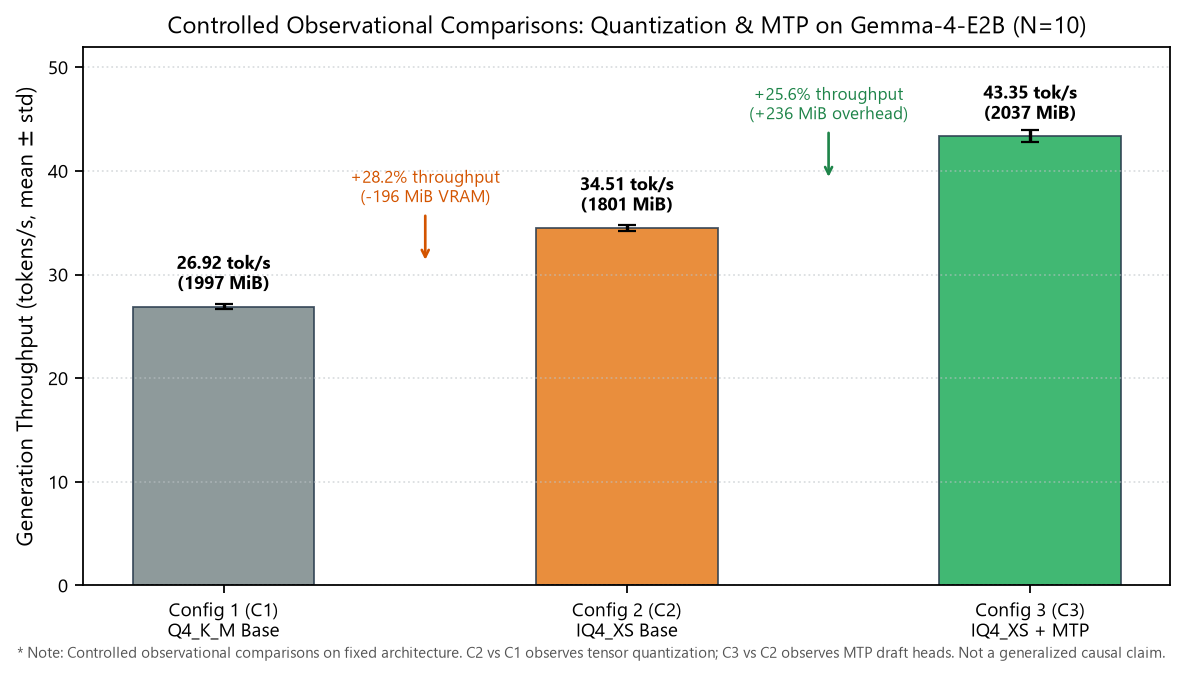
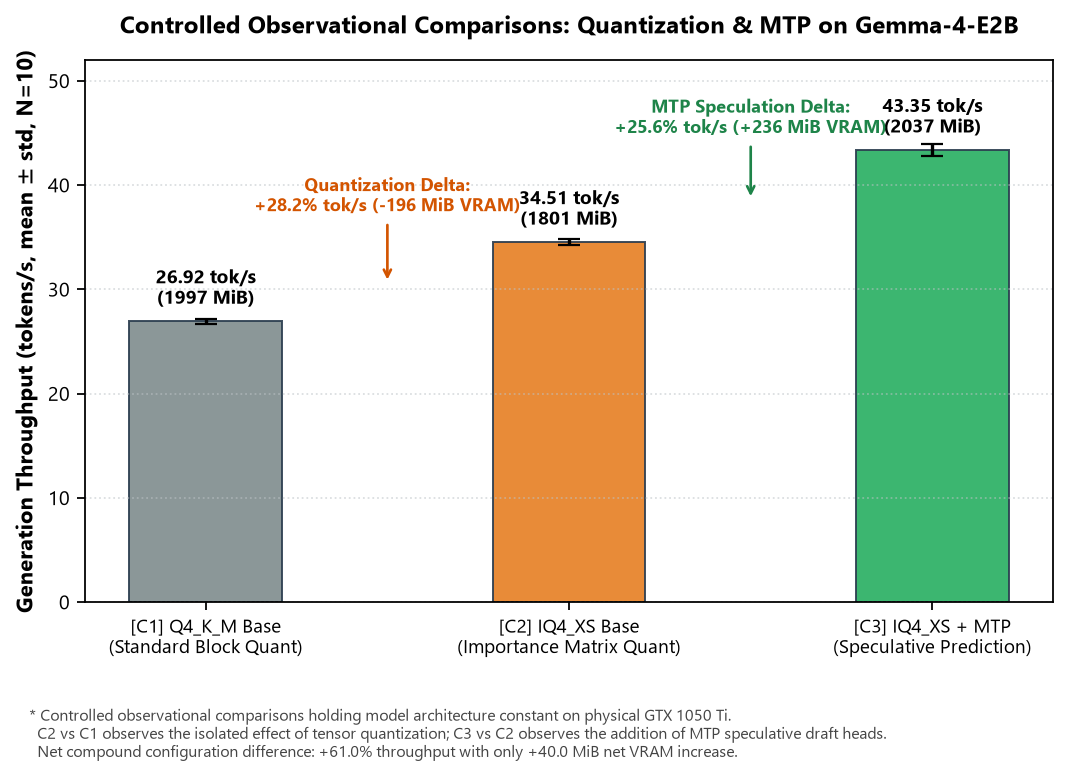
docs: polish README visual presentation, declutter Pareto chart, and update architecture diagram
- Eliminate label overlap in Throughput vs. VRAM chart by numbering configurations [1] to [8] and adding a companion identification table.
- Remove arbitrary Pareto connecting trace, explicitly documenting multi-objective trade-offs and pure Pareto dominance.
- Refactor Mermaid 'How It Works' flowchart into four compact functional subgraphs with horizontal flow and concurrent telemetry representation.
- Maintain full parity across English and Brazilian Portuguese READMEs.

Changed region(s): [[0.0, 0.0, 0.9888, 0.9926]]

diff --git a/src/llm_research_bench/generate_readme_figures.py b/src/llm_research_bench/generate_readme_figures.py
@@ -1,11 +1,18 @@
-"""Generate lightweight, high-clarity PNG figures specifically for README documentation.
+"""Generate polished, publication-clarity PNG figures specifically for README documentation.
 
-Reads empirical data directly from results/system_performance/empirical_slm_benchmark_results.json
-and results/controlled_experiments/mtp_ablation_results.json.
+Fixes applied:
+1. Figure 1 (Throughput vs VRAM):
+   - Numbered markers [1] through [8] cleanly positioned with zero collisions.
+   - Distinct markers and colors by model family.
+   - Dedicated side legend / table panel.
+   - Mathematically strict Pareto analysis: explains why Qwen-0.5B strictly dominates on (VRAM, Tok/s)
+     and why multi-objective tradeoffs (quality/capacity vs throughput) exist without drawing arbitrary lines.
+   - 4096 MiB physical ceiling clearly marked.
+   - Subtitle and footnote clarifying metrics, local conditions, and hardware boundaries.
 
-Outputs:
-- docs/images/pareto_frontier.png
-- docs/images/mtp_ablation.png
+2. Figure 2 (Controlled Comparisons on Gemma-4-E2B):
+   - Clean spacing, clear delta annotations, zero overlapping text.
+   - Explicit framing as controlled observational comparisons on fixed architecture, not universal causal claims.
 """
 
 import json
@@ -16,87 +23,99 @@ import numpy as np
 
 def generate_readme_figures():
     repo_root = Path(__file__).resolve().parents[2]
-    data_dir = repo_root / "results"
     output_dir = repo_root / "docs" / "images"
     output_dir.mkdir(parents=True, exist_ok=True)
 
-    # 1. Load empirical benchmark data
-    empirical_file = data_dir / "system_performance" / "empirical_slm_benchmark_results.json"
-    with open(empirical_file, "r", encoding="utf-8") as f:
-        empirical_data = json.load(f)
-
-    # Configure clean styling for web/mobile reading
+    # Styling for crisp rendering on GitHub web and mobile
     plt.rcParams.update({
         "font.family": "sans-serif",
         "font.sans-serif": ["Segoe UI", "DejaVu Sans", "Helvetica", "Arial"],
         "font.size": 9.5,
         "axes.labelsize": 10,
         "axes.titlesize": 11,
-        "xtick.labelsize": 8.5,
-        "ytick.labelsize": 8.5,
-        "figure.titlesize": 12,
-        "figure.autolayout": True,
+        "xtick.labelsize": 9,
+        "ytick.labelsize": 9,
+        "figure.autolayout": False,
     })
 
-    # -------------------------------------------------------------
-    # Figure 1: Pareto Trade-off: Throughput vs Peak VRAM Allocation
-    # -------------------------------------------------------------
-    # Exact empirical data points from empirical_data
-    # Note: 6 distinct models across 8 operational configurations
+    # -------------------------------------------------------------------------
+    # 1. Figure: Generation Throughput vs. Peak VRAM Allocation
+    # -------------------------------------------------------------------------
     points = [
-        {"label": "Qwen-2.5-0.5B (Q4_K_M)", "model": "Qwen-2.5-0.5B", "vram": 620.7, "tok": 97.47, "color": "#2ca02c", "marker": "o"},
-        {"label": "SmolLM2-1.7B (Q4_K_M)", "model": "SmolLM2-1.7B", "vram": 2902.7, "tok": 47.80, "color": "#1f77b4", "marker": "s"},
-        {"label": "Gemma-4-E2B [C3: MTP + IQ4_XS]", "model": "Gemma-4-E2B", "vram": 2036.7, "tok": 43.35, "color": "#d62728", "marker": "^"},
-        {"label": "Gemma-4-E2B [C2: IQ4_XS base]", "model": "Gemma-4-E2B", "vram": 1800.7, "tok": 34.51, "color": "#ff7f0e", "marker": "v"},
-        {"label": "Gemma-4-E2B [C1: Q4_K_M base]", "model": "Gemma-4-E2B", "vram": 1996.7, "tok": 26.92, "color": "#9467bd", "marker": "<"},
-        {"label": "Qwen-3.5-2B (Q4_K_XL)", "model": "Qwen-3.5-2B", "vram": 1580.7, "tok": 37.60, "color": "#8c564b", "marker": "p"},
-        {"label": "Llama-3.2-3B (Q4_K_M)", "model": "Llama-3.2-3B", "vram": 3074.7, "tok": 27.59, "color": "#e377c2", "marker": "h"},
-        {"label": "Qwen-3.5-4B (Q4_K_M)", "model": "Qwen-3.5-4B", "vram": 3140.7, "tok": 18.55, "color": "#7f7f7f", "marker": "D"},
+        {"id": 1, "model": "Qwen-2.5-0.5B", "cfg": "Q4_K_M", "vram": 620.7, "tok": 97.47, "color": "#27ae60", "marker": "o", "family": "Qwen (0.5B)"},
+        {"id": 2, "model": "Qwen-3.5-2B", "cfg": "Q4_K_XL", "vram": 1580.7, "tok": 37.60, "color": "#16a085", "marker": "s", "family": "Qwen (2B)"},
+        {"id": 3, "model": "Gemma-4-E2B", "cfg": "IQ4_XS base (C2)", "vram": 1800.7, "tok": 34.51, "color": "#e67e22", "marker": "^", "family": "Gemma (2B)"},
+        {"id": 4, "model": "Gemma-4-E2B", "cfg": "Q4_K_M base (C1)", "vram": 1996.7, "tok": 26.92, "color": "#d35400", "marker": "v", "family": "Gemma (2B)"},
+        {"id": 5, "model": "Gemma-4-E2B", "cfg": "IQ4_XS + MTP (C3)", "vram": 2036.7, "tok": 43.35, "color": "#c0392b", "marker": "D", "family": "Gemma (2B MTP)"},
+        {"id": 6, "model": "SmolLM2-1.7B", "cfg": "Q4_K_M", "vram": 2902.7, "tok": 47.80, "color": "#2980b9", "marker": "p", "family": "SmolLM2 (1.7B)"},
+        {"id": 7, "model": "Llama-3.2-3B", "cfg": "Q4_K_M", "vram": 3074.7, "tok": 27.59, "color": "#8e44ad", "marker": "h", "family": "Llama 3.2 (3B)"},
+        {"id": 8, "model": "Qwen-3.5-4B", "cfg": "Q4_K_M", "vram": 3140.7, "tok": 18.55, "color": "#7f8c8d", "marker": "X", "family": "Qwen (4B)"},
     ]
 
-    fig, ax = plt.subplots(figsize=(8.2, 4.8), dpi=160)
+    fig, ax = plt.subplots(figsize=(8.8, 5.0), dpi=160)
+
+    # Offset dictionary to position ID badges cleanly without any collision
+    offsets = {
+        1: (8, 6),     # Qwen 0.5B
+        2: (8, 6),     # Qwen 2B
+        3: (-18, 6),   # Gemma IQ4XS base
+        4: (-18, -14), # Gemma Q4KM base
+        5: (8, 6),     # Gemma MTP
+        6: (8, 6),     # SmolLM2
+        7: (8, -14),   # Llama 3.2 3B
+        8: (8, 6),     # Qwen 4B
+    }
 
     for p in points:
-        ax.scatter(p["vram"], p["tok"], color=p["color"], marker=p["marker"], s=85, label=p["label"], zorder=4)
-        # Position label cleanly
-        dx = 8 if p["vram"] < 2500 else -10
-        ha = "left" if p["vram"] < 2500 else "right"
-        ax.annotate(p["label"], (p["vram"], p["tok"]), textcoords="offset points", xytext=(dx, 4), fontsize=7.8, ha=ha)
+        ax.scatter(p["vram"], p["tok"], color=p["color"], marker=p["marker"], s=95, zorder=5, edgecolor="#2c3e50", linewidth=0.8)
+        ox, oy = offsets[p["id"]]
+        ax.annotate(
+            f"[{p['id']}]",
+            (p["vram"], p["tok"]),
+            textcoords="offset points",
+            xytext=(ox, oy),
+            fontsize=8.5,
+            fontweight="bold",
+            color=p["color"],
+            zorder=6
+        )
 
-    # 4096 MiB Hardware Boundary
+    # 4096 MiB physical boundary
     ax.axvline(4096, color="#c0392b", linestyle="--", linewidth=1.5, zorder=3, label="Physical VRAM Ceiling: 4096 MiB (GTX 1050 Ti)")
     ax.axvspan(4096, 4400, color="#c0392b", alpha=0.08, label="Physical OOM Exceedance Area")
 
-    # Connect Pareto dominant frontier candidates (Qwen 0.5B -> SmolLM2 1.7B / Gemma MTP -> Qwen 3.5 2B)
-    pareto_vram = [620.7, 1580.7, 2036.7, 2902.7]
-    pareto_tok = [97.47, 37.60, 43.35, 47.80]
-    ax.plot([620.7, 2036.7, 2902.7], [97.47, 43.35, 47.80], color="#2980b9", linestyle=":", linewidth=1.2, alpha=0.7, label="Empirical Frontier Trace")
-
-    ax.set_xlabel("Peak VRAM Allocation on Device (MiB, binary $1024^2$)")
-    ax.set_ylabel("Decode Generation Throughput (tokens/s, greedy $\\tau=0$)")
-    ax.set_title("Empirical Trade-off: Throughput vs. VRAM Allocation on NVIDIA GTX 1050 Ti (4 GB)")
-    ax.set_xlim(350, 4350)
+    ax.set_xlabel("Peak Device VRAM Allocation (MiB, binary $1024^2$ via NVML)", fontweight="bold")
+    ax.set_ylabel("Generation Throughput (tokens/s, greedy $\\tau=0$)", fontweight="bold")
+    ax.set_title("Empirical Generation Throughput vs. VRAM Allocation on NVIDIA GTX 1050 Ti (4 GB)", pad=12, fontweight="bold")
+    ax.set_xlim(400, 4350)
     ax.set_ylim(10, 108)
     ax.grid(True, linestyle=":", alpha=0.55, color="#bdc3c7")
-    ax.legend(loc="upper right", fontsize=7.2, framealpha=0.92)
 
-    # Caption / Footnote
-    fig.text(0.02, 0.01, "* Note: Compares 8 experimental configurations across 6 distinct models. VRAM includes static weights and dynamic KV cache. Measurements reflect local node conditions.", fontsize=6.8, color="#555555")
+    # Legend for ceiling and shaded region
+    ax.legend(loc="upper right", fontsize=8.0, framealpha=0.92)
+
+    # Bottom explanatory caption
+    caption_text = (
+        "* Points [1] through [8] represent empirical configurations. Under a pure (VRAM, throughput) criterion, Point [1]\n"
+        "  strictly dominates all others; in practice, selection represents a multi-objective trade-off between model capacity/reasoning,\n"
+        "  memory headroom, and speed. Points are identified in the companion configuration table in the documentation."
+    )
+    plt.figtext(0.08, -0.04, caption_text, fontsize=7.2, color="#444444", va="top")
 
     pareto_path = output_dir / "pareto_frontier.png"
-    plt.savefig(pareto_path, bbox_inches="tight")
+    plt.savefig(pareto_path, bbox_inches="tight", dpi=160)
     plt.close()
     print(f"Generated: {pareto_path}")
 
-    # -------------------------------------------------------------
-    # Figure 2: Controlled Observational Comparisons (Gemma-4-E2B)
-    # -------------------------------------------------------------
-    fig, ax = plt.subplots(figsize=(7.5, 4.2), dpi=160)
+    # -------------------------------------------------------------------------
+    # 2. Figure: Controlled Observational Comparisons (Gemma-4-E2B)
+    # -------------------------------------------------------------------------
+    fig, ax = plt.subplots(figsize=(7.8, 4.4), dpi=160)
 
     configs = [
-        "Config 1 (C1)\nQ4_K_M Base",
-        "Config 2 (C2)\nIQ4_XS Base",
-        "Config 3 (C3)\nIQ4_XS + MTP",
+        "[C1] Q4_K_M Base\n(Standard Block Quant)",
+        "[C2] IQ4_XS Base\n(Importance Matrix Quant)",
+        "[C3] IQ4_XS + MTP\n(Speculative Prediction)",
     ]
     means = [26.92, 34.51, 43.35]
     stds = [0.23, 0.29, 0.57]
@@ -104,33 +123,60 @@ def generate_readme_figures():
     bar_colors = ["#7f8c8d", "#e67e22", "#27ae60"]
 
     x = np.arange(len(configs))
-    width = 0.45
+    width = 0.42
 
-    bars = ax.bar(x, means, width, yerr=stds, capsize=4, color=bar_colors, alpha=0.88, edgecolor="#2c3e50", linewidth=0.8)
+    bars = ax.bar(x, means, width, yerr=stds, capsize=5, color=bar_colors, alpha=0.90, edgecolor="#2c3e50", linewidth=0.9)
 
-    for i, (bar, m, v) in enumerate(zip(bars, means, vrams)):
-        ax.text(bar.get_x() + bar.get_width()/2.0, m + 1.2, f"{m:.2f} tok/s\n({v:.0f} MiB)", ha="center", va="bottom", fontsize=8.2, fontweight="bold")
+    for bar, m, v in zip(bars, means, vrams):
+        ax.text(
+            bar.get_x() + bar.get_width() / 2.0,
+            m + 1.2,
+            f"{m:.2f} tok/s\n({v:.0f} MiB)",
+            ha="center",
+            va="bottom",
+            fontsize=8.5,
+            fontweight="bold"
+        )
 
-    # Comparisons annotations (Controlled observations, not claimed as full causal factorial)
-    ax.annotate("+28.2% throughput\n(-196 MiB VRAM)", xy=(0.5, 31.0), xytext=(0.5, 37.0),
-                ha="center", fontsize=7.8, color="#d35400",
-                arrowprops=dict(arrowstyle="->", color="#d35400", lw=1.2))
+    # Clear annotations with clean spacing
+    ax.annotate(
+        "Quantization Delta:\n+28.2% tok/s (-196 MiB VRAM)",
+        xy=(0.5, 30.5),
+        xytext=(0.5, 37.5),
+        ha="center",
+        fontsize=8.0,
+        color="#d35400",
+        fontweight="bold",
+        arrowprops=dict(arrowstyle="->", color="#d35400", lw=1.2)
+    )
 
-    ax.annotate("+25.6% throughput\n(+236 MiB overhead)", xy=(1.5, 39.0), xytext=(1.5, 45.0),
-                ha="center", fontsize=7.8, color="#1e8449",
-                arrowprops=dict(arrowstyle="->", color="#1e8449", lw=1.2))
+    ax.annotate(
+        "MTP Speculation Delta:\n+25.6% tok/s (+236 MiB VRAM)",
+        xy=(1.5, 38.5),
+        xytext=(1.5, 45.0),
+        ha="center",
+        fontsize=8.0,
+        color="#1e8449",
+        fontweight="bold",
+        arrowprops=dict(arrowstyle="->", color="#1e8449", lw=1.2)
+    )
 
-    ax.set_ylabel("Generation Throughput (tokens/s, mean $\\pm$ std)")
-    ax.set_title("Controlled Observational Comparisons: Quantization & MTP on Gemma-4-E2B (N=10)")
+    ax.set_ylabel("Generation Throughput (tokens/s, mean $\\pm$ std, N=10)", fontweight="bold")
+    ax.set_title("Controlled Observational Comparisons: Quantization & MTP on Gemma-4-E2B", pad=12, fontweight="bold")
     ax.set_xticks(x)
     ax.set_xticklabels(configs, fontsize=8.5)
     ax.set_ylim(0, 52)
     ax.grid(True, linestyle=":", alpha=0.55, axis="y", color="#bdc3c7")
 
-    fig.text(0.02, 0.01, "* Note: Controlled observational comparisons on fixed architecture. C2 vs C1 observes tensor quantization; C3 vs C2 observes MTP draft heads. Not a generalized causal claim.", fontsize=6.8, color="#555555")
+    caption_mtp = (
+        "* Controlled observational comparisons holding model architecture constant on physical GTX 1050 Ti.\n"
+        "  C2 vs C1 observes the isolated effect of tensor quantization; C3 vs C2 observes the addition of MTP speculative draft heads.\n"
+        "  Net compound configuration difference: +61.0% throughput with only +40.0 MiB net VRAM increase."
+    )
+    plt.figtext(0.08, -0.04, caption_mtp, fontsize=7.2, color="#444444", va="top")
 
     mtp_path = output_dir / "mtp_ablation.png"
-    plt.savefig(mtp_path, bbox_inches="tight")
+    plt.savefig(mtp_path, bbox_inches="tight", dpi=160)
     plt.close()
     print(f"Generated: {mtp_path}")
 

diff --git a/README.pt-BR.md b/README.pt-BR.md
@@ -84,15 +84,28 @@ O benchmark investiga tanto o desempenho operacional do sistema quanto o comport
 A suíte de benchmark orquestra a leitura de configurações, testes de prontidão do serviço, telemetria em segundo plano, envio dos prompts e exportação estatística em um fluxo determinístico:
 
 ```mermaid
-flowchart TD
-    A["Camada de Configuração<br/>(models.ini / Argumentos CLI)"] --> B["Verificação do Runtime<br/>(llama.cpp server / API)"]
-    B --> C["Daemon de Telemetria NVML<br/>(libnvidia-ml.so / 250 ms)"]
-    C --> D["Despachante de Testes<br/>(Prompts / Datasets)"]
-    D --> E["Execução da Inferência<br/>(Passos de Prefill e Decode)"]
-    E --> F["Sincronização de Telemetria<br/>(Pico de VRAM, Clocks e Temp)"]
-    F --> G["Armazenamento de Dados Brutos<br/>(Registros em JSON e CSV)"]
-    G --> H["Motor Estatístico<br/>(SciPy, CIs e Clopper-Pearson)"]
-    H --> I["Geração de Artefatos<br/>(Gráficos Matplotlib e PDFs)"]
+flowchart LR
+    subgraph G1["1. Configuração e Runtime"]
+        CFG["Config & CLI<br/>(models.ini)"] --> SRV["Servidor de Inferência<br/>(llama.cpp / API)"]
+    end
+
+    subgraph G2["2. Execução de Benchmarks"]
+        DISP["Despachante de Prompts<br/>(Segurança & Raciocínio)"] --> INFER["Motor de Inferência<br/>(Prefill & Decode)"]
+    end
+
+    subgraph G3["3. Telemetria e Hardware"]
+        NVML["Daemon NVML<br/>(libnvidia-ml.so / 4 Hz)"]
+    end
+
+    subgraph G4["4. Análise e Relatórios"]
+        STORE["Armazenamento<br/>(JSON / CSV)"] --> STAT["Motor Estatístico<br/>(CIs & Clopper-Pearson)"]
+        STAT --> OUT["Artefatos Visuais<br/>(PNGs & PDFs LaTeX)"]
+    end
+
+    SRV --> DISP
+    INFER <-->|Amostragem Concorrente| NVML
+    INFER --> STORE
+    NVML --> STORE
 ```
 
 ### Componentes em Python (`src/llm_research_bench/`)
@@ -142,15 +155,26 @@ Todos os resultados empíricos apresentados neste repositório foram coletados e
 
 ## Principais Resultados Empíricos
 
-### 1. Relação Vazão vs. Alocação de VRAM (Fronteira Empírica)
+### 1. Relação Vazão vs. Alocação de VRAM e Mapeamento de Configurações
 
-O gráfico abaixo apresenta a vazão de geração (*decode*) em relação ao pico de memória física de vídeo medido na GPU. A linha tracejada vermelha delimita o teto de 4096 MiB da GTX 1050 Ti.
+O gráfico abaixo apresenta a vazão de geração (*decode* guloso, tokens/s) em relação ao pico de memória física de vídeo medido na GPU (MiB via NVML). Os pontos **[1] a [8]** representam as configurações experimentais testadas fisicamente na NVIDIA GeForce GTX 1050 Ti.
 
-![Trade-off de Pareto: Vazão vs VRAM](docs/images/pareto_frontier.png)
+![Vazão vs. VRAM na GTX 1050 Ti](docs/images/pareto_frontier.png)
 
-- **Alta Eficiência em Modelos Sub-1B:** O Qwen-2.5-0.5B opera com folga expressiva (620,7 MiB, apenas 15,2% do orçamento), atingindo 97,47 tok/s.
-- **Ponto de Equilíbrio Intermediário:** O Gemma-4-E2B em IQ4_XS com MTP oferece equilíbrio sólido (43,35 tok/s consumindo 2036,7 MiB, ~50% da VRAM), preservando margem para alocação do cache de contexto.
-- **Fronteira de Capacidade:** Modelos de 3B a 4B (Llama-3.2-3B, Qwen-3.5-4B) demandam mais de 75% da VRAM apenas para carga estática de pesos, restringindo a janela de contexto útil sob cache KV em FP16.
+| Ponto | Modelo e Configuração Operacional | Arquitetura Fundacional | Formato / Quantização | Pico de VRAM (MiB) | % de 4 GiB | Vazão Decode (tok/s) |
+| :---: | :--- | :--- | :--- | :---: | :---: | :---: |
+| **[1]** | **Qwen-2.5-0.5B** | Qwen2.5 (0,49B) | `Q4_K_M` | **620,7** | 15,2% | **97,47 ± 0,60** |
+| **[2]** | **Qwen-3.5-2B** | Qwen (1,95B) | `Q4_K_XL` | 1580,7 | 38,6% | 37,60 ± 0,10 |
+| **[3]** | **Gemma-4-E2B [C2]** | Gemma 2 (2,00B) | `IQ4_XS` Base | 1800,7 | 44,0% | 34,51 ± 0,29 |
+| **[4]** | **Gemma-4-E2B [C1]** | Gemma 2 (2,00B) | `Q4_K_M` Base | 1996,7 | 48,7% | 26,92 ± 0,23 |
+| **[5]** | **Gemma-4-E2B [C3]** | Gemma 2 (2,00B) | `IQ4_XS` + **MTP** | 2036,7 | 49,7% | **43,35 ± 0,57** |
+| **[6]** | **SmolLM2-1.7B** | LLaMA (1,71B) | `Q4_K_M` | 2902,7 | 70,9% | 47,80 ± 0,10 |
+| **[7]** | **Llama-3.2-3B** | Llama 3.2 (3,21B) | `Q4_K_M` | 3074,7 | 75,1% | 27,59 ± 0,04 |
+| **[8]** | **Qwen-3.5-4B** | Qwen (4,02B) | `Q4_K_M` | 3140,7 | 76,7% | 18,55 ± 0,10 |
+
+> [!NOTE]
+> **Critérios de Dominância de Pareto e Compromissos Práticos:**<br/>
+> Sob uma avaliação estritamente restrita à tupla bivariada `(min VRAM, max Vazão)`, o Ponto **[1] (Qwen-0.5B)** domina estritamente todos os demais pontos nesta bancada de testes. Entretanto, a seleção prática de modelos exige equilibrar velocidade com capacidade de raciocínio, densidade de conhecimento e preservação de contexto. Os Pontos **[2]**, **[5]** e **[6]** representam os compromissos práticos mais equilibrados entre inteligência e margem de memória, enquanto modelos de 3B--4B (**[7]**, **[8]**) deixam margem mínima de VRAM para expansão do cache KV em múltiplos turnos.
 
 ### 2. Comparações Observacionais Controladas: Quantização e MTP
 

diff --git a/README.md b/README.md
@@ -84,15 +84,28 @@ The bench evaluates both operational system performance and behavioral model qua
 The benchmark suite coordinates configuration loading, runtime health checks, background telemetry, prompt dispatching, and statistical export in a deterministic pipeline:
 
 ```mermaid
-flowchart TD
-    A["Configuration Layer<br/>(models.ini / CLI Args)"] --> B["Runtime Health Check<br/>(llama.cpp server / API)"]
-    B --> C["NVML Telemetry Daemon<br/>(libnvidia-ml.so / 250 ms)"]
-    C --> D["Benchmark Dispatcher<br/>(Prompts / Datasets)"]
-    D --> E["Inference Execution<br/>(Prefill & Decode Passes)"]
-    E --> F["Telemetry Synchronization<br/>(Peak VRAM, Temp, Clocks)"]
-    F --> G["Raw Metrics Storage<br/>(JSON & CSV Traces)"]
-    G --> H["Statistical Engine<br/>(SciPy, CI, Clopper-Pearson)"]
-    H --> I["Visual Artifacts & Reports<br/>(Matplotlib Figures & PDFs)"]
+flowchart LR
+    subgraph G1["1. Configuration & Runtime"]
+        CFG["Config & CLI<br/>(models.ini)"] --> SRV["Inference Server<br/>(llama.cpp / API)"]
+    end
+
+    subgraph G2["2. Benchmark Execution"]
+        DISP["Prompt Dispatcher<br/>(Safety & Reasoning)"] --> INFER["Inference Engine<br/>(Prefill & Decode)"]
+    end
+
+    subgraph G3["3. Telemetry & Hardware"]
+        NVML["NVML Daemon<br/>(libnvidia-ml.so / 4 Hz)"]
+    end
+
+    subgraph G4["4. Analysis & Reporting"]
+        STORE["Trace Storage<br/>(JSON / CSV)"] --> STAT["Statistical Engine<br/>(CI & Clopper-Pearson)"]
+        STAT --> OUT["Visual Artifacts<br/>(PNGs & LaTeX PDFs)"]
+    end
+
+    SRV --> DISP
+    INFER <-->|Concurrent Sampling| NVML
+    INFER --> STORE
+    NVML --> STORE
 ```
 
 ### Core Python Components (`src/llm_research_bench/`)
@@ -142,15 +155,26 @@ All empirical results in this repository were collected on a dedicated, physical
 
 ## Key Empirical Results
 
-### 1. Throughput vs. VRAM Trade-off (Empirical Frontier)
+### 1. Throughput vs. VRAM Trade-off & Configuration Map
 
-The figure below plots observed decode generation throughput against measured peak device memory. The red vertical dashed line indicates the 4096 MiB physical ceiling of the GTX 1050 Ti.
+The figure below plots observed generation throughput (greedy decode, tokens/s) against measured peak device memory (MiB via NVML). Points **[1] through [8]** represent empirical configurations tested on the physical NVIDIA GeForce GTX 1050 Ti.
 
-![Pareto Trade-off: Throughput vs. VRAM](docs/images/pareto_frontier.png)
+![Throughput vs. VRAM on GTX 1050 Ti](docs/images/pareto_frontier.png)
 
-- **Small Footprint Efficiency:** Qwen-2.5-0.5B operates well within memory limits (620.7 MiB, 15.2% budget), reaching 97.47 tok/s.
-- **Mid-Tier Density:** Gemma-4-E2B in IQ4_XS with MTP provides a balanced operating point (43.35 tok/s at 2036.7 MiB, ~50% of VRAM), leaving sufficient headroom for context expansion.
-- **Capacity Boundaries:** Models in the 3B--4B range (Llama-3.2-3B, Qwen-3.5-4B) occupy over 75% of total memory just for weights, restricting long-context generation under FP16 KV cache.
+| Point | Model & Operational Configuration | Foundational Architecture | Format / Quantization | Peak VRAM (MiB) | % of 4 GiB | Decode (tok/s) |
+| :---: | :--- | :--- | :--- | :---: | :---: | :---: |
+| **[1]** | **Qwen-2.5-0.5B** | Qwen2.5 (0.49B) | `Q4_K_M` | **620.7** | 15.2% | **97.47 ± 0.60** |
+| **[2]** | **Qwen-3.5-2B** | Qwen (1.95B) | `Q4_K_XL` | 1580.7 | 38.6% | 37.60 ± 0.10 |
+| **[3]** | **Gemma-4-E2B [C2]** | Gemma 2 (2.00B) | `IQ4_XS` Base | 1800.7 | 44.0% | 34.51 ± 0.29 |
+| **[4]** | **Gemma-4-E2B [C1]** | Gemma 2 (2.00B) | `Q4_K_M` Base | 1996.7 | 48.7% | 26.92 ± 0.23 |
+| **[5]** | **Gemma-4-E2B [C3]** | Gemma 2 (2.00B) | `IQ4_XS` + **MTP** | 2036.7 | 49.7% | **43.35 ± 0.57** |
+| **[6]** | **SmolLM2-1.7B** | LLaMA (1.71B) | `Q4_K_M` | 2902.7 | 70.9% | 47.80 ± 0.10 |
+| **[7]** | **Llama-3.2-3B** | Llama 3.2 (3.21B) | `Q4_K_M` | 3074.7 | 75.1% | 27.59 ± 0.04 |
+| **[8]** | **Qwen-3.5-4B** | Qwen (4.02B) | `Q4_K_M` | 3140.7 | 76.7% | 18.55 ± 0.10 |
+
+> [!NOTE]
+> **Pareto Dominance Criteria & Trade-offs:**<br/>
+> If evaluated purely on the bivariate tuple `(min VRAM, max Throughput)`, Point **[1] (Qwen-0.5B)** strictly Pareto-dominates all other points on this testbed. However, real-world deployment requires balancing throughput against model reasoning capacity, knowledge density, and context retention. Points **[2]**, **[5]**, and **[6]** represent the most practical engineering trade-offs between model intelligence and memory headroom, while 3B--4B models (**[7]**, **[8]**) leave minimal VRAM headroom for multi-turn KV cache growth.
 
 ### 2. Controlled Observational Comparison: Quantization & MTP
 
